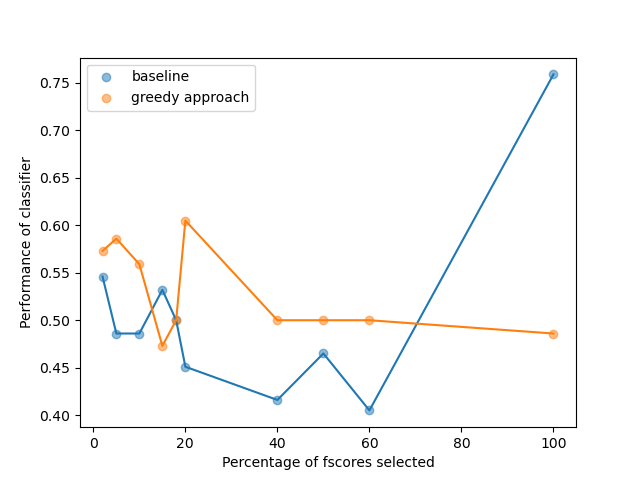
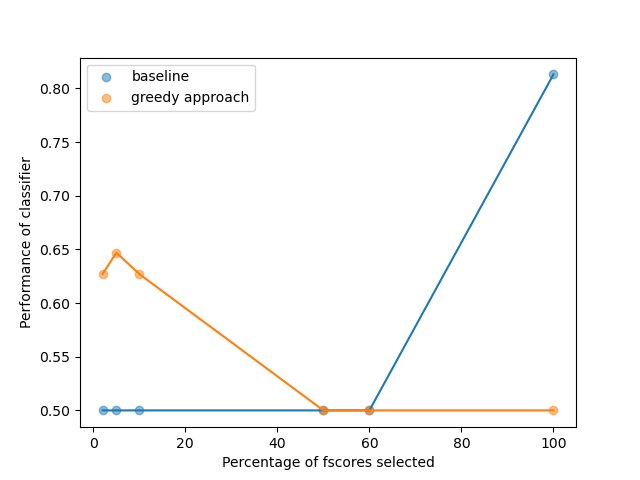
Upsampling of the training data

diff --git a/graphtools/fc_data/load_data.py b/graphtools/fc_data/load_data.py
@@ -1,5 +1,5 @@
 import sys
-
+from imblearn.over_sampling import RandomOverSampler
 sys.path.append('..')
 import numpy as np
 import pandas as pd
@@ -300,15 +300,17 @@ def main():
         conx = pd.concat([X, y], axis=1)
         fscores_all = fscore(conx, class_col=conx.columns[-1])[:-1]
         # we do not need the fscores of label with itself
+        oversample = RandomOverSampler(sampling_strategy='minority')
 
-        X_train, X_test, y_train, y_test = train_test_split(X, y, test_size=0.30, stratify=y, random_state=20)
+        X_train, X_test, y_train, y_test = train_test_split(X, y, test_size=0.20, stratify=y, random_state=20)
+        X_train, y_train = oversample.fit_resample(X_train, y_train)
         X_test = pd.DataFrame(X_test, columns=X.columns)
         X_train = pd.DataFrame(X_train, columns=X.columns)
         y_train = pd.Series(y_train, name=y.name)
         y_test = pd.Series(y_test, name=y.name)
 
         global percentages
-        percentages = [2, 5, 10, 15, 18,  20, 40, 50, 60, 100]
+        percentages = [2, 5, 10, 50, 60, 100]
         num_nodes_preserved = []
         for per in percentages:
             coeff = [1, 1, (-0.01) * (num_nodes ** 2 + num_nodes) * per]
